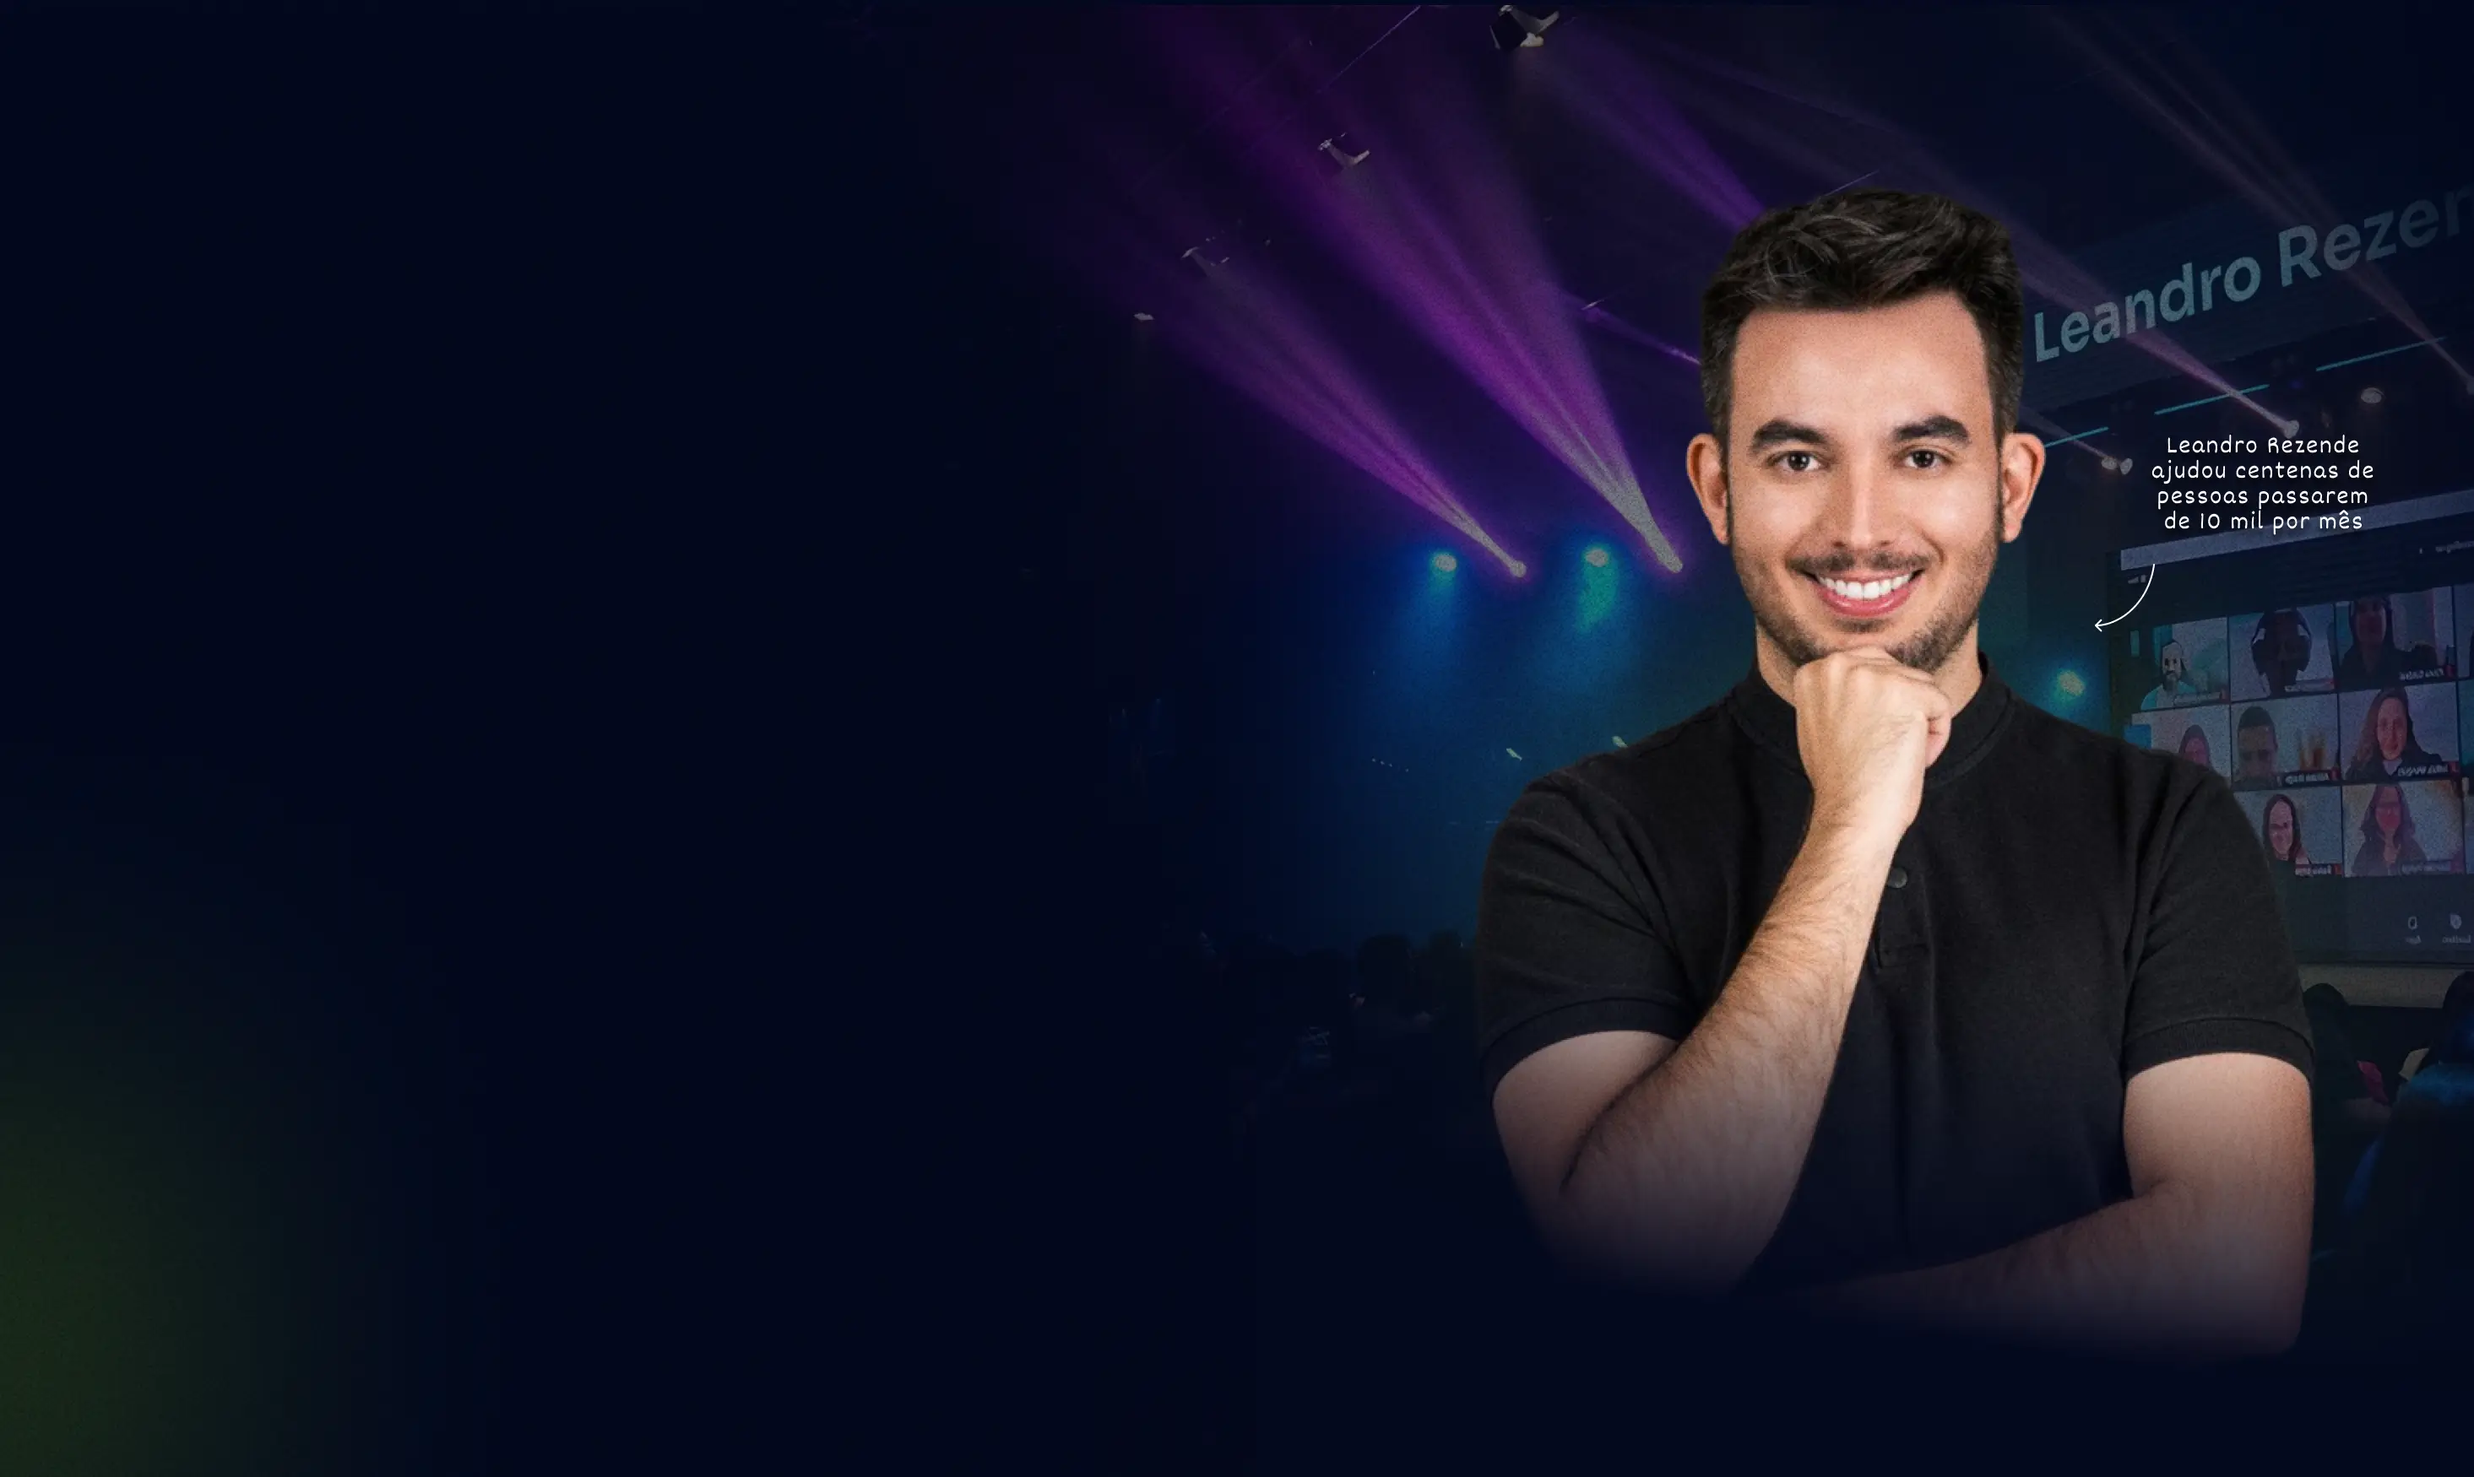
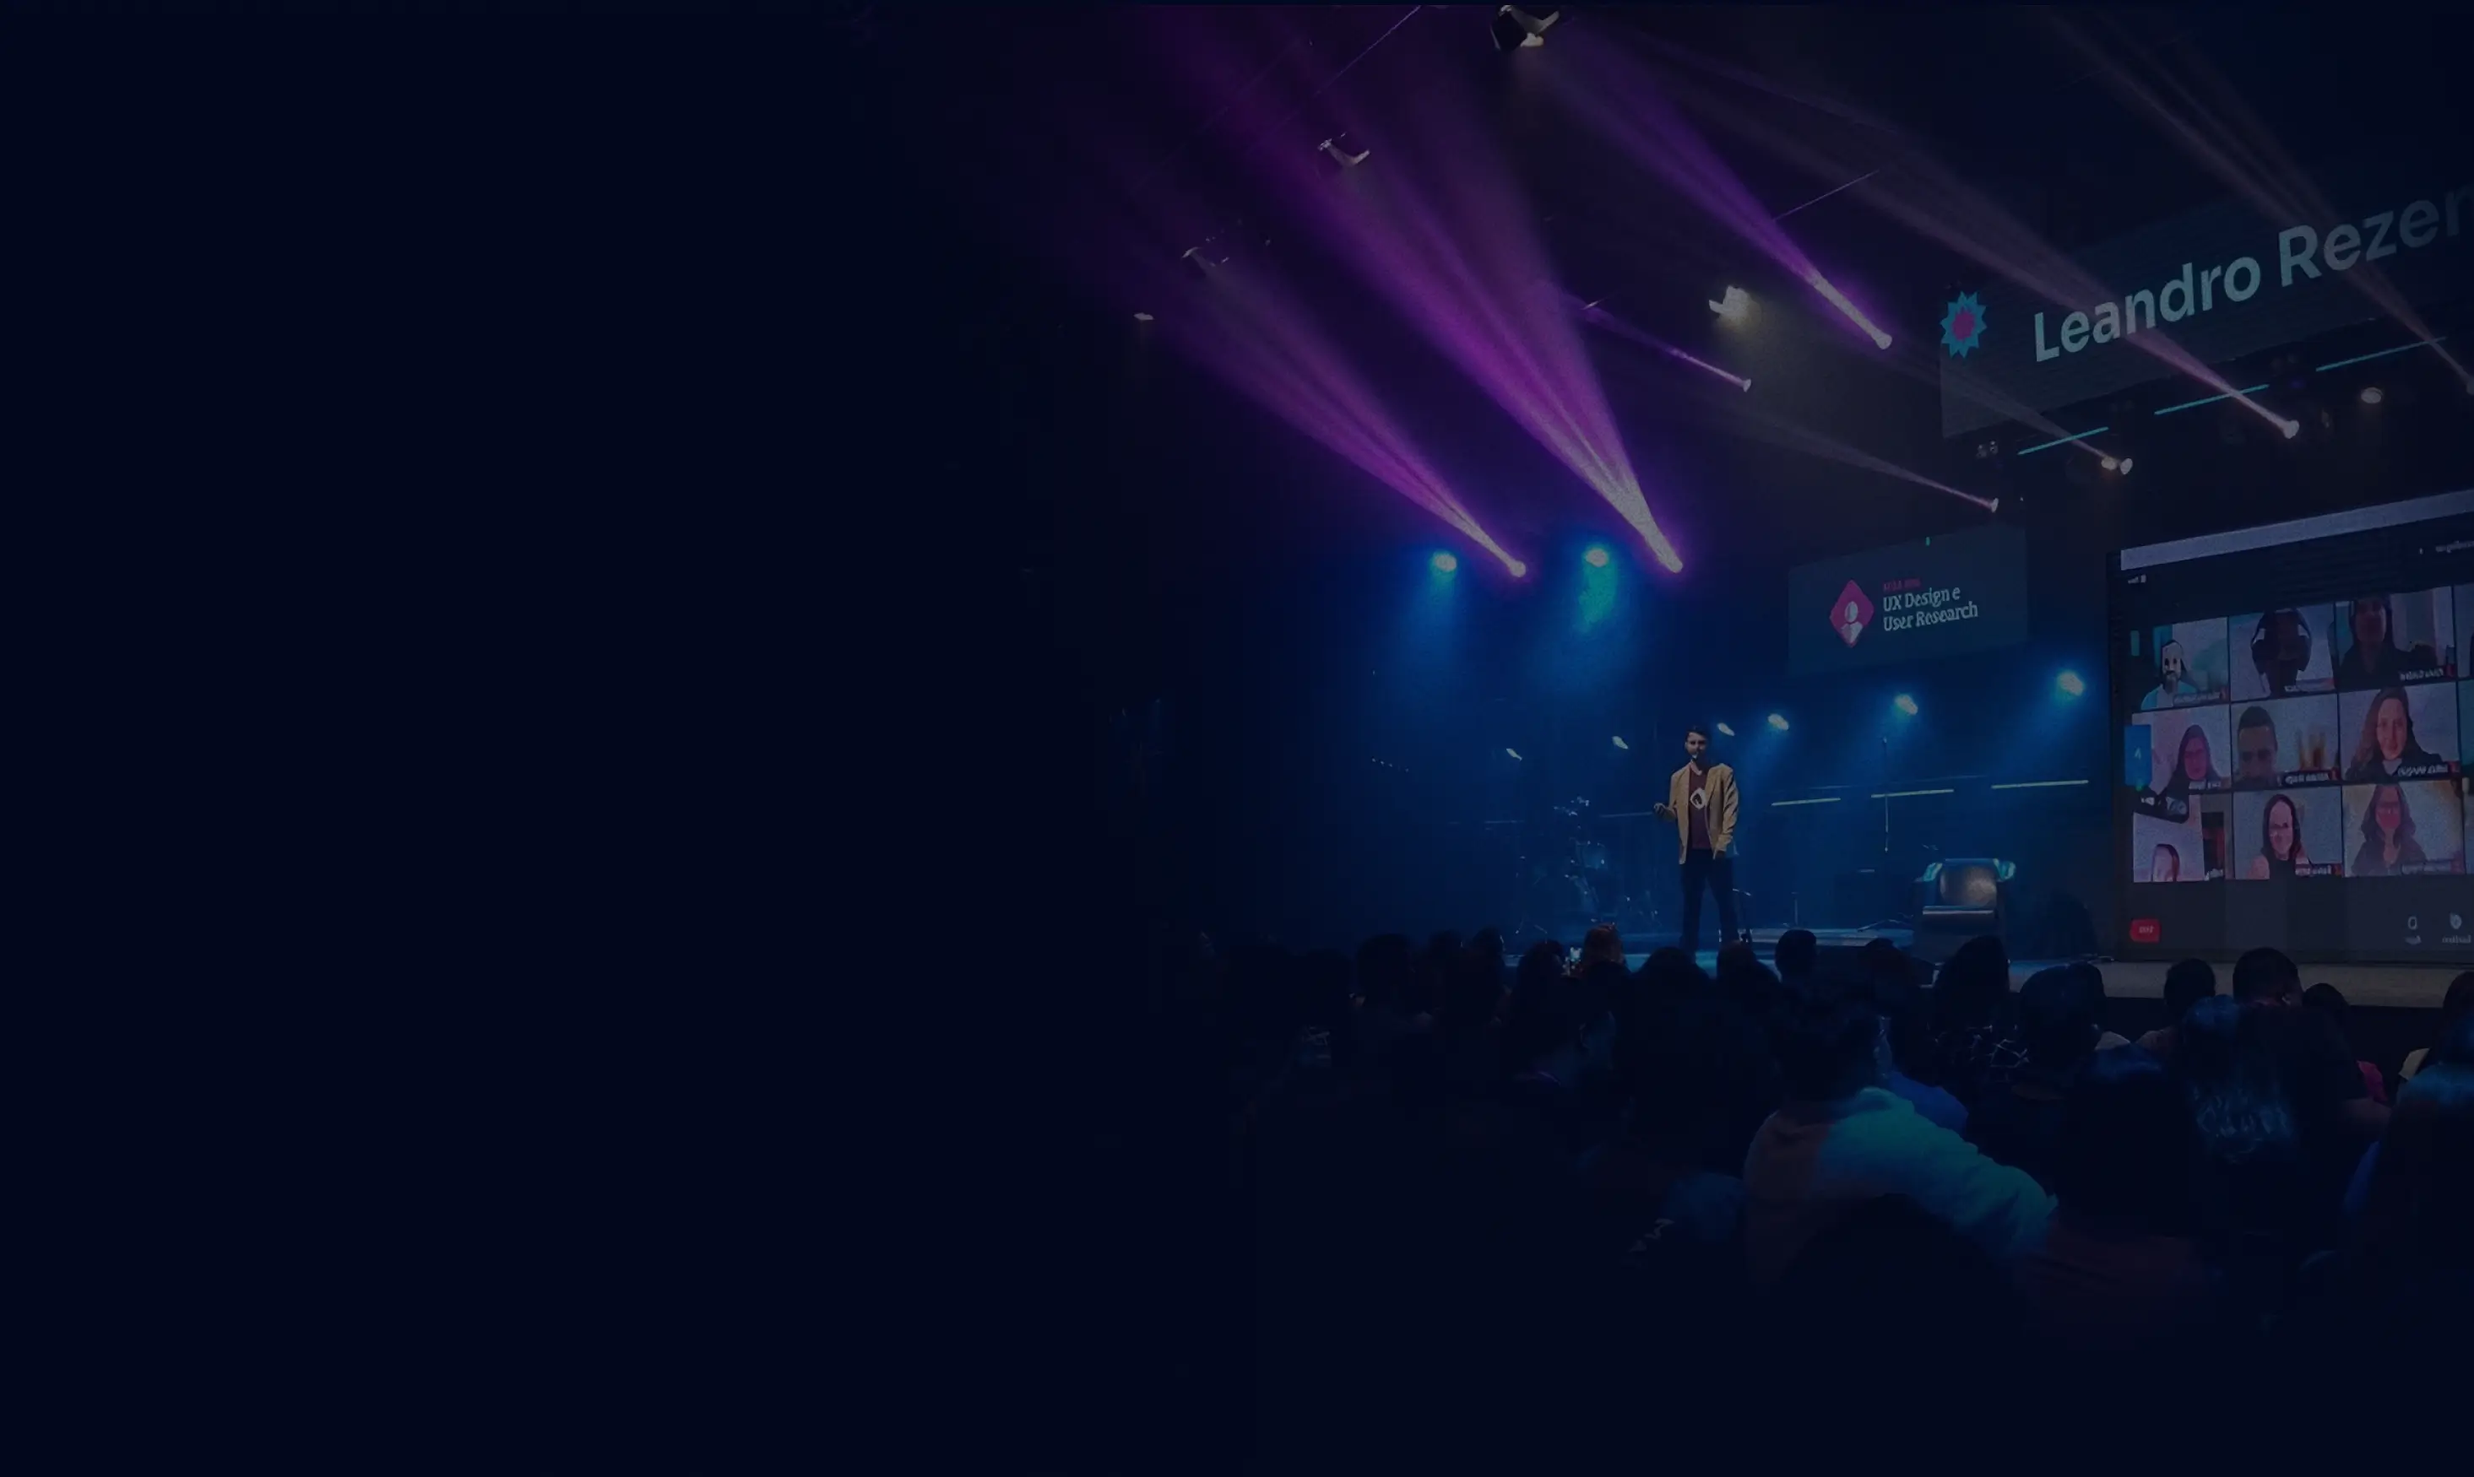
✨feature: Updating hero section and move blur top section

Changed region(s): [[0.5901, 0.1234, 0.9628, 0.9257], [0.0, 0.7714, 0.0621, 1.0], [0.8696, 0.2777, 0.9628, 0.3703]]

diff --git a/style.css b/style.css
@@ -17,6 +17,13 @@ body {
 
 /* ---------------- Header ---------------- */
 
+.header {
+  position: absolute;
+  top: 0;
+  left: 0;
+  right: 0;
+}
+
 .container-header {
   display: flex;
   justify-content: space-between;
@@ -84,21 +91,27 @@ body {
 }
 
 .container-hero {
-  padding-top: 92px;
+  padding-top: 185px;
   padding-bottom: 116px;
   display: flex;
   flex-direction: column;
   gap: 100px;
+  position: relative;
 }
 
-.hero-content {
-  display: flex;
-  flex-direction: column;
+.hero-leandro {
+  position: absolute;
+  right: 0;
+  top: 50%;
+  transform: translate(0, -50%);
+  width: 722px;
+  z-index: 0;
 }
 
 .hero-left {
   display: flex;
   flex-direction: column;
+  z-index: 1;
 }
 
 .hero-left-header {
@@ -284,6 +297,18 @@ body {
 
 .for-who-section {
   background-image: url('img/bg-texture.webp');
+  position: relative;
+}
+
+.for-who-blur-top {
+  position: absolute;
+  top: 0;
+  left: 0;
+  right: 0;
+
+  background-image: linear-gradient(to right, rgba(151, 222, 0, 0), rgba(151, 222, 0, 1), rgba(151, 222, 0, 0.02));
+  height: 1px;
+  width: 100%;
 }
 
 .container-for-who {
@@ -389,17 +414,6 @@ body {
 
 .learn-section {
   position: relative;
-}
-
-.learn-section-blur-top {
-  position: absolute;
-  top: 0;
-  left: 0;
-  right: 0;
-
-  background-image: linear-gradient(to right, rgba(151, 222, 0, 0), rgba(151, 222, 0, 1), rgba(151, 222, 0, 0.02));
-  height: 1px;
-  width: 100%;
 }
 
 .container-learn {

diff --git a/index.html b/index.html
@@ -11,7 +11,7 @@
   <script src="script.js" defer></script>
 </head>
 <body>
-  <header>
+  <header class="header">
     <div class="container container-header">
       <p class="header-text">
         O Certificado do Plano 10 MIL Será Gratuito Somente Para Quem Participar Ao Vivo. 
@@ -43,6 +43,7 @@
   </header>
   <section class="hero-section">
     <div class="container container-hero">
+      <img src="img/hero-leandro.webp" alt="Imagem Hero Leandro Rezende" class="hero-leandro">
       <div class="hero-left">
         <div class="hero-left-header">
           <img src="img/logo.webp" alt="Logo Plano 10 mil" class="hero-logo">
@@ -90,6 +91,7 @@
     </div>
   </section>
   <section class="for-who-section">
+    <div class="for-who-blur-top"></div>
     <div class="container container-for-who">
       <img src="img/bg-blur.webp" alt="Image Blur" class="for-who-bg-blur">
       <div class="for-who-header">
@@ -143,7 +145,6 @@
     </div>
   </section>
   <section class="learn-section">
-    <div class="learn-section-blur-top"></div>
     <div class="container container-learn">
       <img src="img/bg-blur.webp" alt="Image Blur" class="learn-bg-blur">
       <h2 class="learn-title">
